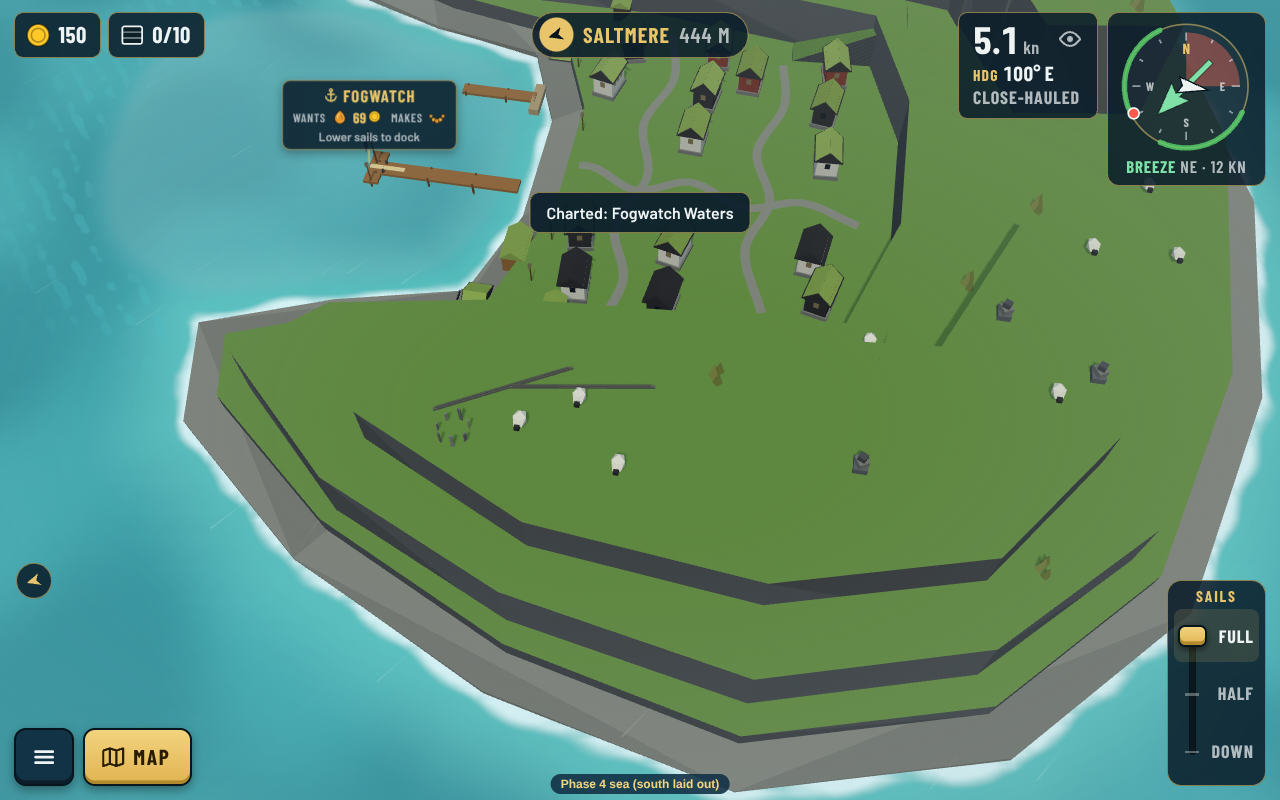
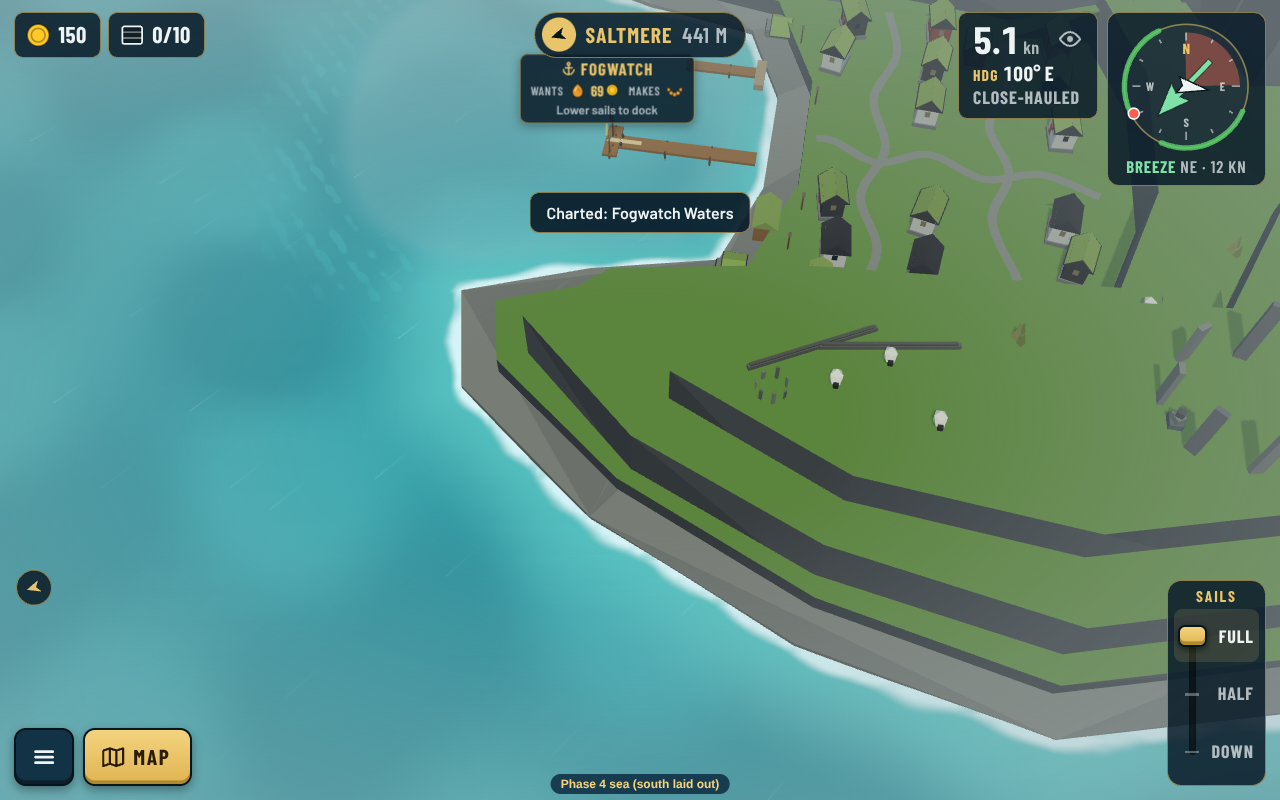
Fogwatch: a great stone ring on the southern fell, walls; bigger amber clusters; art bible East as built
Claude-Session: https://claude.ai/code/session_016woYKHL37N2LpcxnCQsLjb

diff --git a/tests/island-files.test.ts b/tests/island-files.test.ts
@@ -144,10 +144,10 @@ const GOLDEN: Record<string, string[]> = {
   'palm-key': ['156:f382bcb1', '165:a95e4a6c', '178:e846448d', '178:e846448d'],
   'lone-palm': Array(4).fill('13:531edc15'),
   // The east sea (decision 0173).
-  fogwatch: ['517:cdf085b3', '610:c6461e2d', '658:7e84bf20', '684:5a25428b'],
+  fogwatch: ['526:fa40ee4a', '619:5315ee0c', '667:c432814d', '693:22349dd2'],
   'the-giant': Array(4).fill('6:7ba70ca5'),
   'his-wife': Array(4).fill('6:22f5c239'),
-  'amber-strand': ['123:f089758f', '127:ced98516', '130:5db7054e', '130:5db7054e'],
+  'amber-strand': ['129:e66b7b39', '133:56673594', '136:e68e96ec', '136:e68e96ec'],
   'puffin-holm': Array(4).fill('8:6d9fe6e1'),
   'lamb-holm': Array(4).fill('17:5b407625'),
   'broch-isle': Array(4).fill('14:a0fc408e'),

diff --git a/docs/art/art-bible.md b/docs/art/art-bible.md
@@ -101,6 +101,7 @@ What Guillaume asked for: **snow and ice textures (mandatory), snowmen, snow-cov
 - **Fogwatch's signature:** the two sea stacks and the foghorn tower; Elias's amber carver's workshop on the quay comes later. Amber is honey-gold beads and lumps on Amber Strand's pale beach.
 - **Props:** two tall sea stacks, a waterfall off a cliff into the sea (the `water` kind of the river feature), stone cairns, slatted drying sheds, boathouses, a foghorn tower, sheep.
 - **Houses (`fog` style):** black tar (`#2f3035`) and whitewash (`#eeeae2`), turf roofs, red frames (`#b8433a`); a white church with a black roof as an ordinary building.
+- **As built ([0173](../decisions/0173-east-sea-fogwatch-the-stepping-stones-and-fog-banks.md)):** turf roofs a lighter olive (`#8fae55` family) over a dark tar eave, so the walls frame them; the ground is one even turf green (`#6a9548`) with basalt-only cliff sides; fells rise in stepped tiers with basalt bands, the high ground on the island's north side so it never hides the town from the camera; village lanes narrow (`width` about 0.024) and wandering.
 - **Fog:** greyer sky and water only inside fog banks (biome tint with fog density), so the coast is moody without the whole sea going grey. **The Stormbreak** storm belt: slate-blue choppy water (about `#2b5266` / `#3e6a7c`) with whitecap streaks and a sharp broken-foam edge you can steer along; squalls are dark shadow discs with the game's rain streaks falling under them (rain curtains were tried and dropped: from the top-down camera they striped, and they cost fill rate); on the chart a dark slate band with amber (`#ffb36b`) chevrons. Amber means storm warning, red is kept for pirates. Builds on the storm look of [0067](../decisions/0067-weather-states-and-storms.md).
 
 ## 9. Architecture and landmarks by sea

diff --git a/docs/reviews/east-sea/README.md b/docs/reviews/east-sea/README.md
@@ -18,13 +18,14 @@ The whole Phase 4 sea, for where the east sits: [chart-wide.png](chart-wide.png)
 
 ## Fogwatch
 
-Second round after the Art director and Guillaume: the high fells moved to the north side in stepped tiers (the south is low, so the town stays in view), one even turf green, lighter turf roofs with a dark eave, narrow wandering lanes, lit windows and quay lamps at night, dry-stone walls and more sheep.
+Second round after the Art director and Guillaume: the high fells moved to the north side in stepped tiers (the south is low, so the town stays in view), one even turf green, lighter turf roofs with a dark eave, narrow wandering lanes, lit windows and quay lamps at night, dry-stone walls and more sheep, and (Guillaume) a great ring of standing stones on the east of the southern fell.
 
 A Faroese harbour town: tarred black and whitewashed turf-roofed houses with red frames, boathouses and drying sheds on the quay, a foghorn tower on the north point, sheep and standing stones on the fells.
 
 ![Approach through the voe](fogwatch-overview-desktop.png)
 ![The town and quays](fogwatch-town-desktop.png)
 ![The fells behind the town](fogwatch-fells-desktop.png)
+![The great stone ring on the east of the southern fell](fogwatch-stones-desktop.png)
 ![At night](fogwatch-night-desktop.png)
 ![Portrait](fogwatch-portrait-portrait.png)
 ![Charted on arrival](fogwatch-approach-desktop.png)
